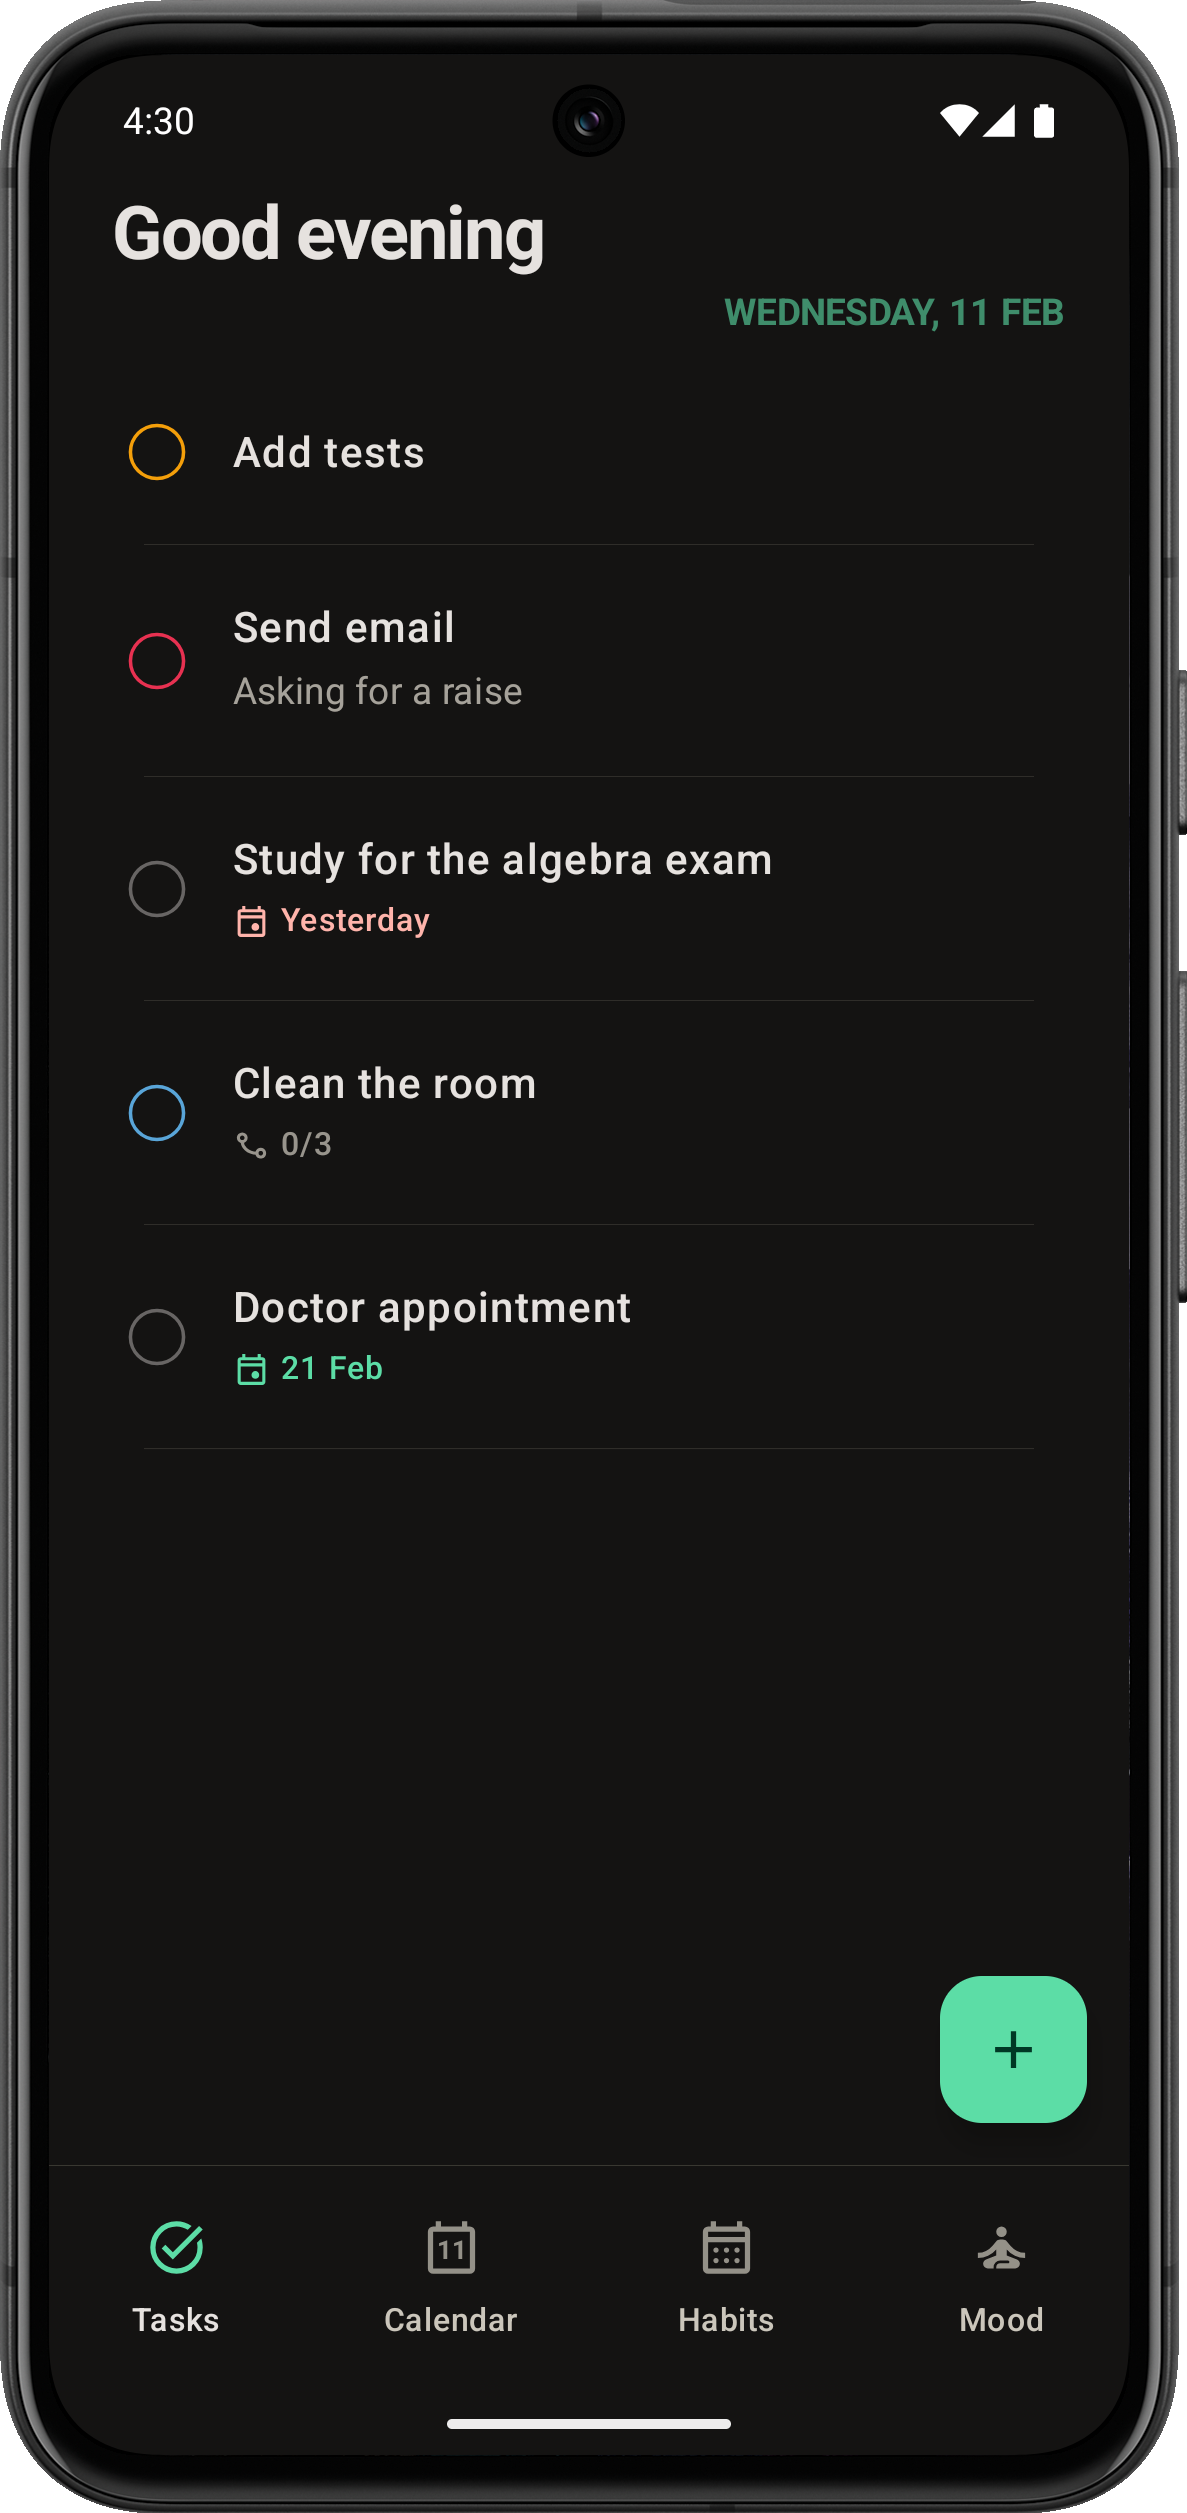
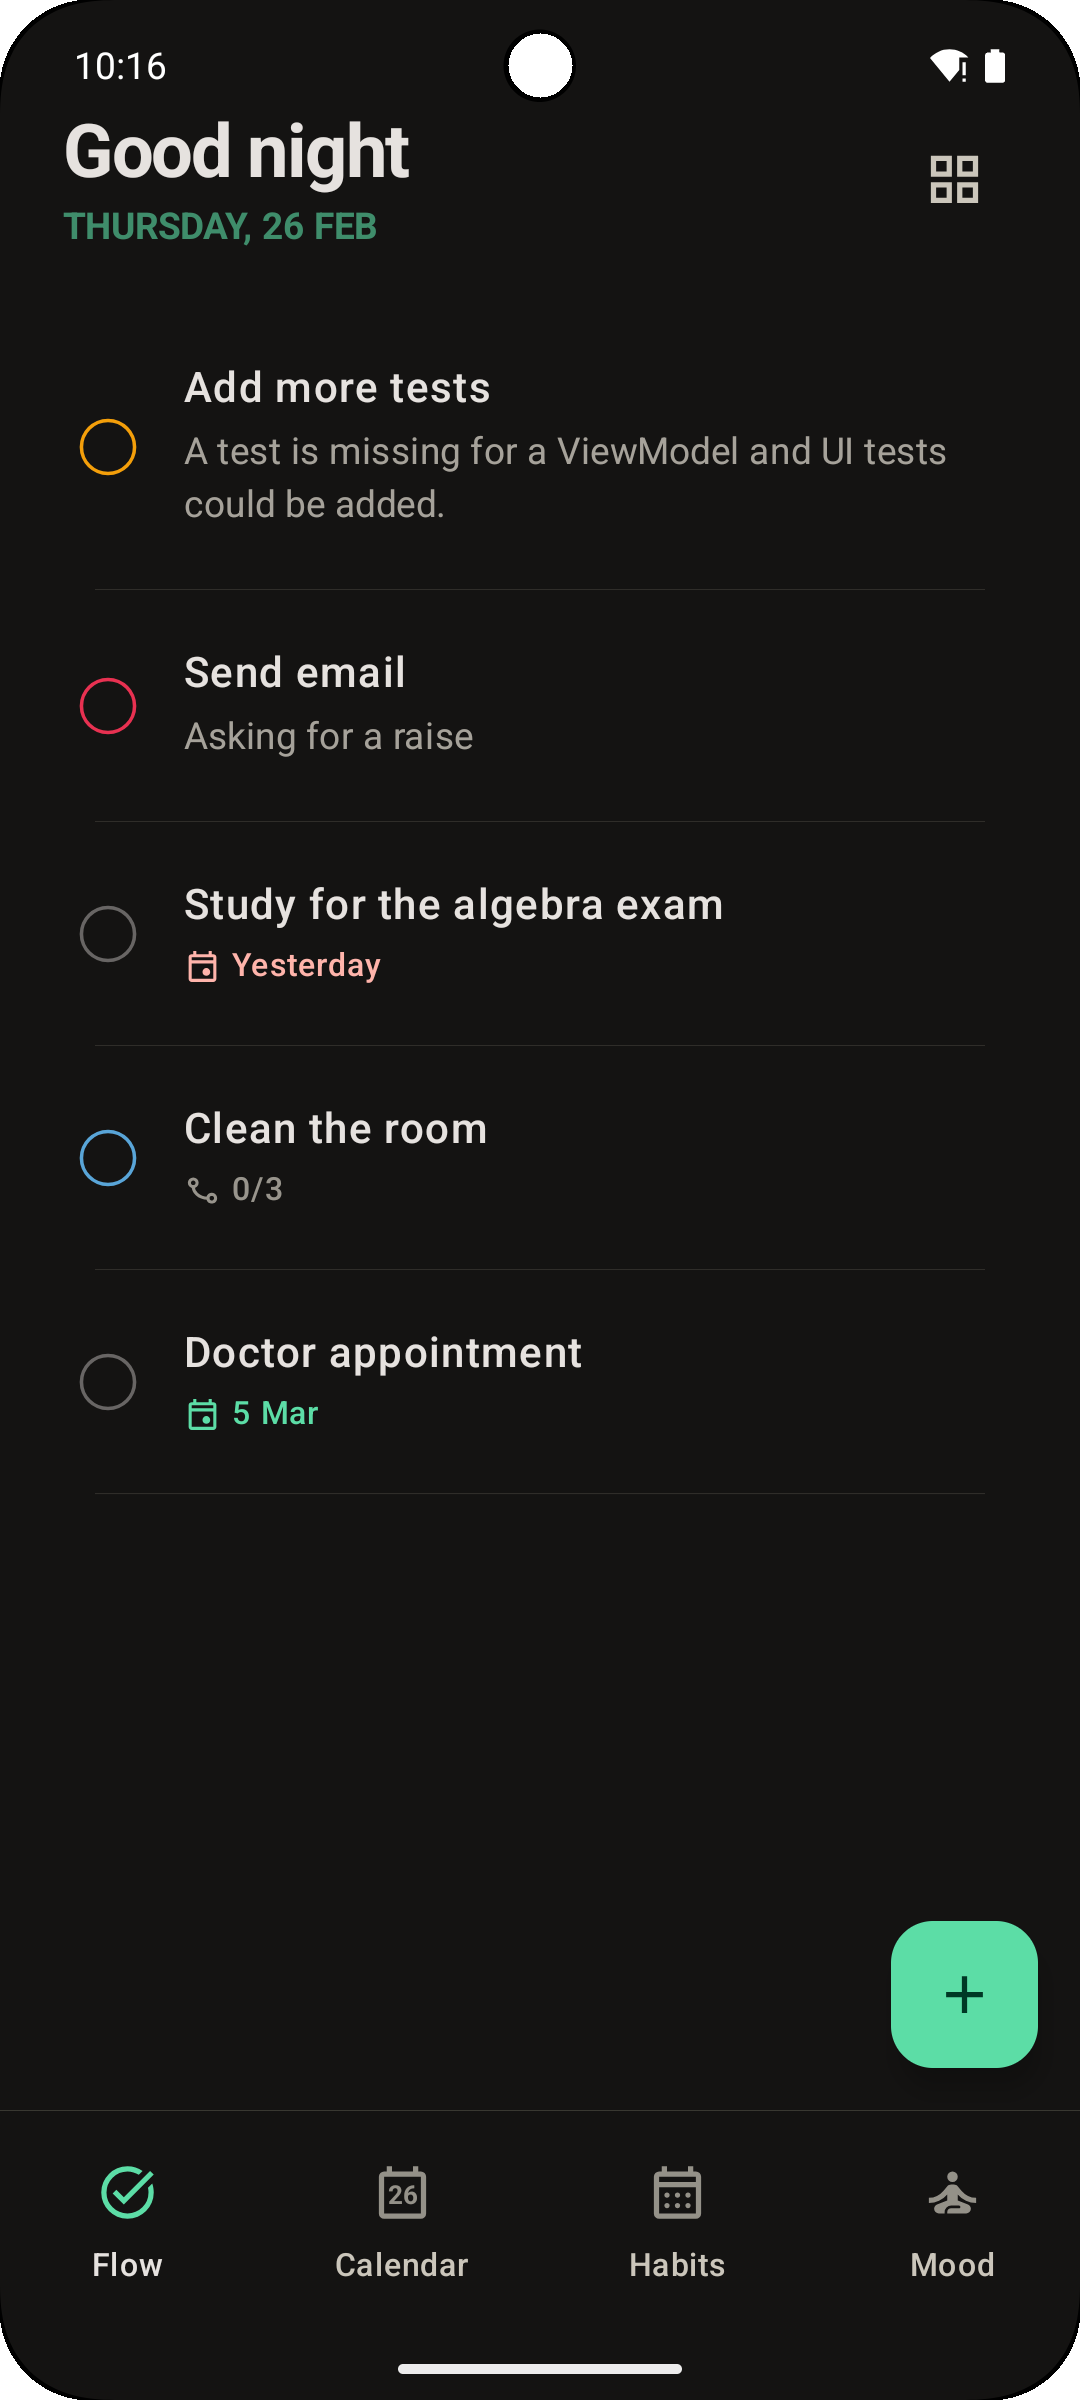
docs: Update screenshots

diff --git a/README.md b/README.md
@@ -11,9 +11,9 @@
 > This project is actively being developed and may have bugs. We welcome contributions from the community!
 
 ## Screenshots
-| ![Image 1](screenshots/home_light.png) |   ![Image 2](screenshots/home_dark.png)   |
-|:--------------------------------------:|:-----------------------------------------:|
-| ![Image 3](screenshots/edit_task.png)  | ![Image 4](screenshots/calendar_view.png) |
+| ![Image 1](screenshots/home_dark.png)  |   ![Image 2](screenshots/home_light.png)   |
+|:--------------------------------------:|:------------------------------------------:|
+| ![Image 3](screenshots/edit_light.png) | ![Image 4](screenshots/calendar_night.png) |
 
 ## Features
 
@@ -94,12 +94,10 @@ We welcome contributions! Here's how you can help:
 2. **Create a feature branch**
    ```bash
    git checkout -b feature/amazing-feature
-  
 3. **Make your changes**
 
   - Write tests when possible
   - Update documentation when possible
-
 4. **Commit your changes**
    ```bash
    git commit -m 'Add some amazing feature'
@@ -114,8 +112,8 @@ FlowState follows **Clean Architecture** with a clear separation of concerns:
 
 ```text
 UI Layer (Presentation)
-├── ViewModels (TaskViewModel)
-├── Composable Screens (TaskScreen)
+├── ViewModels
+├── Composable Screens
 └── UI State Management
 
 Domain Layer (Business Logic)
